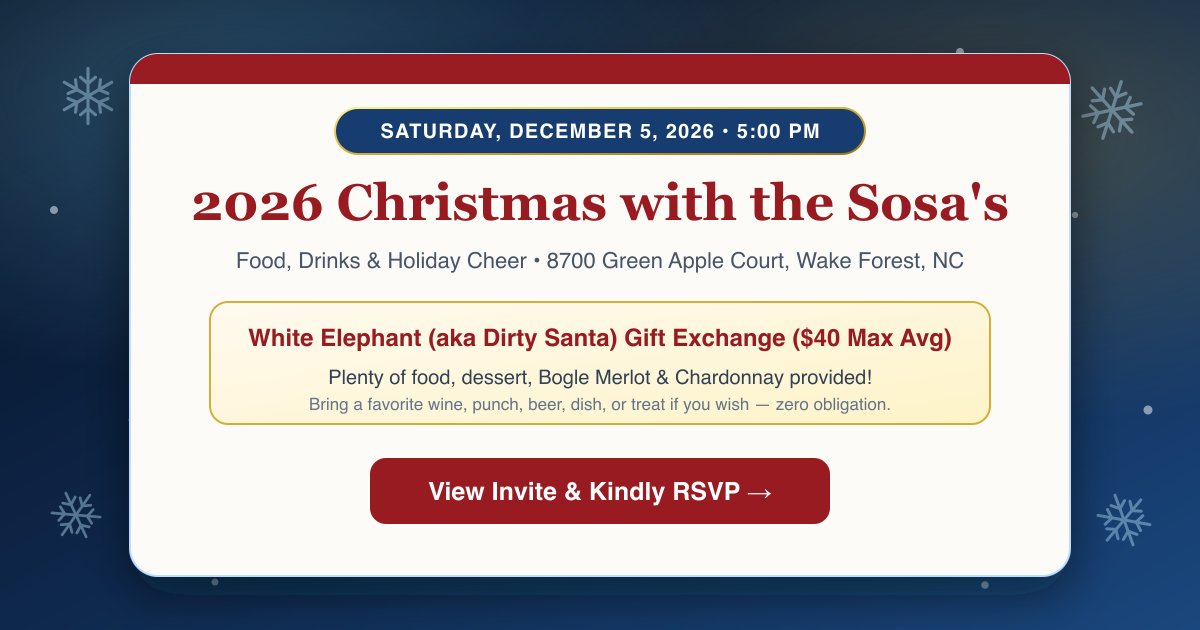
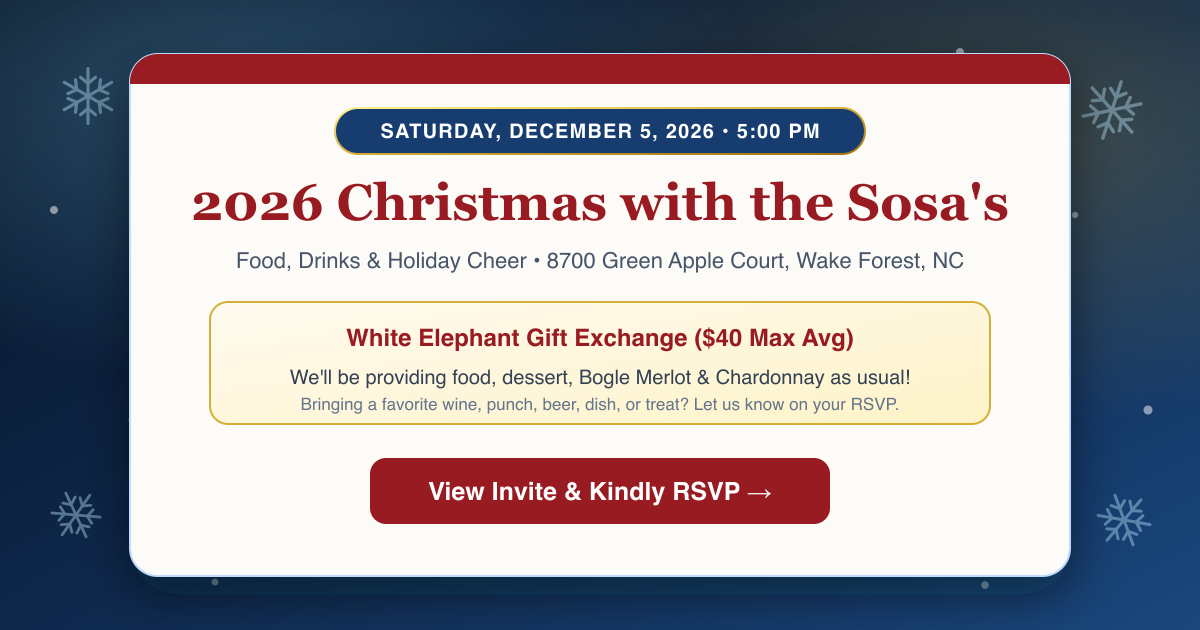
Use White Elephant only, apply Option C food/wine wording, and remove Nothing checkbox option

Changed region(s): [[0.185, 0.5127, 0.8017, 0.6635]]

diff --git a/invite/index.html b/invite/index.html
@@ -6,7 +6,7 @@
   <meta name="robots" content="noindex, nofollow, noarchive">
   <meta name="theme-color" content="#071326">
   <title>2026 Christmas with the Sosa's — Invite &amp; RSVP</title>
-  <meta name="description" content="Saturday, December 5, 2026 @ 5:00 PM • 8700 Green Apple Court, Wake Forest, NC • Food, Drinks &amp; White Elephant (aka Dirty Santa) Gift Exchange.">
+  <meta name="description" content="Saturday, December 5, 2026 @ 5:00 PM • 8700 Green Apple Court, Wake Forest, NC • Food, Drinks &amp; White Elephant Gift Exchange.">
   <!-- Favicon & Apple Touch Icon -->
   <link rel="icon" type="image/svg+xml" href="./favicon.svg">
   <link rel="icon" type="image/png" sizes="64x64" href="./favicon.png">
@@ -15,9 +15,9 @@
   <meta property="og:type" content="website">
   <meta property="og:site_name" content="2026 Christmas with the Sosa's">
   <meta property="og:title" content="2026 Christmas with the Sosa's — Invite &amp; RSVP">
-  <meta property="og:description" content="Saturday, December 5, 2026 @ 5:00 PM • 8700 Green Apple Court, Wake Forest, NC • Food, Drinks &amp; White Elephant (aka Dirty Santa) Gift Exchange.">
+  <meta property="og:description" content="Saturday, December 5, 2026 @ 5:00 PM • 8700 Green Apple Court, Wake Forest, NC • Food, Drinks &amp; White Elephant Gift Exchange.">
   <meta property="og:url" content="https://2026christmas.sosa-life.com/invite/">
-  <meta property="og:image" content="https://2026christmas.sosa-life.com/invite/og-preview.png">
+  <meta property="og:image" content="https://2026christmas.sosa-life.com/invite/og-preview.png?v=7">
   <meta property="og:image:type" content="image/png">
   <meta property="og:image:width" content="1200">
   <meta property="og:image:height" content="630">
@@ -25,14 +25,14 @@
   <!-- Twitter / X Large Image Card -->
   <meta name="twitter:card" content="summary_large_image">
   <meta name="twitter:title" content="2026 Christmas with the Sosa's — Invite &amp; RSVP">
-  <meta name="twitter:description" content="Saturday, December 5, 2026 @ 5:00 PM • 8700 Green Apple Court, Wake Forest, NC • Food, Drinks &amp; White Elephant (aka Dirty Santa) Gift Exchange.">
-  <meta name="twitter:image" content="https://2026christmas.sosa-life.com/invite/og-preview.png">
+  <meta name="twitter:description" content="Saturday, December 5, 2026 @ 5:00 PM • 8700 Green Apple Court, Wake Forest, NC • Food, Drinks &amp; White Elephant Gift Exchange.">
+  <meta name="twitter:image" content="https://2026christmas.sosa-life.com/invite/og-preview.png?v=7">
   <link rel="preconnect" href="https://fonts.googleapis.com">
   <link rel="preconnect" href="https://fonts.gstatic.com" crossorigin>
   <link href="https://fonts.googleapis.com/css2?family=Playfair+Display:wght@600;700&family=Plus+Jakarta+Sans:wght@400;500;600;700&display=swap" rel="stylesheet">
-  <link rel="stylesheet" href="./styles.css?v=6">
-  <script defer src="../config.js?v=6"></script>
-  <script defer src="./app.js?v=6"></script>
+  <link rel="stylesheet" href="./styles.css?v=7">
+  <script defer src="../config.js?v=7"></script>
+  <script defer src="./app.js?v=7"></script>
 </head>
 <body>
   <canvas id="snow-canvas" aria-hidden="true"></canvas>
@@ -61,9 +61,9 @@
       </div>
 
       <div class="callout-banner white-elephant-banner" id="white-elephant-banner">
-        <p class="callout-title">🎁 White Elephant (aka Dirty Santa) Gift Exchange Returns!</p>
+        <p class="callout-title">🎁 White Elephant Gift Exchange Returns!</p>
         <p id="white-elephant-announcement">
-          We'll be doing our White Elephant (aka Dirty Santa) gift exchange again this year just like last year! Please let us know in your RSVP if you'll be participating. The average gift value should be no more than $40.
+          We'll be doing our White Elephant gift exchange again this year just like last year! Please let us know in your RSVP if you'll be participating. The average gift value should be no more than $40.
         </p>
         <p class="callout-links">
           <a
@@ -72,7 +72,7 @@
             target="_blank"
             rel="noopener"
           >
-            New to White Elephant (Dirty Santa)? Read how it works →
+            New to White Elephant? Read how it works →
           </a>
         </p>
       </div>
@@ -93,7 +93,7 @@
         <details class="faq-outer-drawer" id="faq-outer-drawer">
           <summary class="faq-outer-summary">
             <span class="faq-outer-label">❓ Frequently Asked Questions</span>
-            <span class="faq-outer-hint">Food &amp; Drinks, Kids, White Elephant (Dirty Santa)</span>
+            <span class="faq-outer-hint">Food &amp; Drinks, Kids, White Elephant</span>
           </summary>
           <div id="faq-list" class="faq-list faq-outer-body"></div>
         </details>
@@ -235,7 +235,7 @@
 
             <fieldset class="field fieldset-plain">
               <legend>
-                Participating in White Elephant (aka Dirty Santa)?
+                Participating in White Elephant?
                 <span class="legend-subtext">
                   We're doing it again this year! Average gift value of no more than $40.
                   <a href="https://www.whiteelephantrules.com/" target="_blank" rel="noopener">How it works</a>
@@ -245,9 +245,9 @@
             </fieldset>
 
             <div class="callout-banner hosts-note-banner" id="hosts-note-banner">
-              <p class="callout-title">🍷 Food &amp; Drinks Provided — Zero Obligation to Bring Anything</p>
+              <p class="callout-title">🍷 Our Holiday Spread &amp; Favorite Sips</p>
               <p id="hosts-note-text">
-                We will have Bogle Merlot and a Chardonnay on hand, plus plenty of food and dessert for everyone! You don't need to bring a thing—as always, we'll have enough food for all. However, we encourage you to bring your favorite wine, punch, or beer (or a dish, appetizer, or dessert if you wish), and please let us know below so we can plan accordingly and minimize food waste.
+                We will be providing food, dessert, and wine (Bogle Merlot &amp; Chardonnay) as usual! If you feel the need to bring something—especially a favorite wine, punch, beer, or a go-to holiday dish or treat—please share it below so we can plan around it and avoid duplicates.
               </p>
             </div>
 
@@ -339,7 +339,7 @@
           <div>
             <h2 id="contributions-heading">Drinks, Dishes, or Treats Guests Are Bringing</h2>
             <p class="card-intro">
-              You don't need to bring a thing—we'll have plenty of food, Bogle Merlot, and Chardonnay! If you wish to bring a favorite drink, dish, or treat, here's what others have mentioned so far. <strong>Refresh the page (or tap Refresh) anytime to see the latest list.</strong>
+              We will be providing food, dessert, and wine (Bogle Merlot &amp; Chardonnay) as usual! If you feel the need to bring a favorite drink, dish, or treat, here's what others have mentioned so far. <strong>Refresh the page (or tap Refresh) anytime to see the latest list.</strong>
             </p>
           </div>
           <button type="button" id="btn-refresh-contributions" class="btn btn-ghost btn-sm">

diff --git a/config.js b/config.js
@@ -18,20 +18,19 @@ window.PARTY_CONFIG = {
     address: '8700 Green Apple Court, Wake Forest, NC',
     mapsUrl: 'https://maps.google.com/?q=8700+Green+Apple+Court,+Wake+Forest,+NC',
     whiteElephantAnnouncement:
-      "We'll be doing our White Elephant (aka Dirty Santa) gift exchange again this year just like last year! Please let us know in your RSVP if you'll be participating. The average gift value should be no more than $40.",
+      "We'll be doing our White Elephant gift exchange again this year just like last year! Please let us know in your RSVP if you'll be participating. The average gift value should be no more than $40.",
     whiteElephantRulesUrl: 'https://www.whiteelephantrules.com/',
     whiteElephantVideoUrl: 'https://youtube.com/shorts/f4T9XBq3QkI',
     whiteElephantLimit: '$40',
     hostsNote:
-      "We will have Bogle Merlot and a Chardonnay on hand, plus plenty of food and dessert for everyone! You don't need to bring a thing—as always, we'll have enough food for all. However, we encourage you to bring your favorite wine, punch, or beer (or a dish, appetizer, or dessert if you wish), and please let us know below so we can plan accordingly and minimize food waste."
+      'We will be providing food, dessert, and wine (Bogle Merlot & Chardonnay) as usual! If you feel the need to bring something—especially a favorite wine, punch, beer, or a go-to holiday dish or treat—please share it below so we can plan around it and avoid duplicates.'
   },
 
   BRINGING_OPTIONS: [
     'Favorite Wine, Punch, or Beer (We will have Bogle Merlot & Chardonnay!)',
     "Appetizer / Hors d'oeuvres",
     'Dish (Side or Main)',
-    'Dessert / Sweet Treat',
-    'Nothing — just bringing ourselves! (Plenty of food provided)'
+    'Dessert / Sweet Treat'
   ],
 
   // Short display labels used in the public "Drinks, Dishes, or Treats" table
@@ -49,7 +48,7 @@ window.PARTY_CONFIG = {
     {
       question: 'Should I bring something?',
       answer:
-        "If you know Jonnin then you know she loves to cook and bake! As always, we'll have plenty of food and dessert for all to enjoy, plus Bogle Merlot and a Chardonnay. People don't need to bring anything at all. That said, we encourage you to bring your favorite wine, punch, or beer—or if you wish to bring a dish, charcuterie, appetizer, or dessert/treat, please let us know in your RSVP so we can plan accordingly and minimize food waste. Of course, if you have allergies, feel free to bring something you can enjoy safely."
+        'If you know Jonnin then you know she loves to cook and bake! We will be providing food, dessert, and wine (Bogle Merlot & Chardonnay) as usual. If you feel the need to bring something—especially a favorite wine, punch, beer, or a go-to holiday dish, appetizer, or treat—please let us know in your RSVP so we can plan around it and avoid duplicates. Of course, if you have allergies, feel free to bring something you can enjoy safely.'
     },
     {
       question: 'Can I bring my children?',
@@ -57,10 +56,10 @@ window.PARTY_CONFIG = {
         'Your children are welcome! All we ask is that you keep a watchful eye on them if they are mobile. Like last year, Jonnin is hoping to have a game for the kids to play (let us know on the RSVP how many kids under 10 are coming!), and we have ample Wi-Fi for those who want to stay occupied on their devices.'
     },
     {
-      question: "What's a White Elephant (aka Dirty Santa)?",
+      question: "What's a White Elephant?",
       answer:
-        "We are doing the White Elephant (aka Dirty Santa) gift exchange again this year just like last year! It's a gift-swapping game where each participating person brings a wrapped gift (couples can share, though it's best to have one each), and players take turns either choosing a new wrapped gift or stealing one that has already been opened (max 2 steals per gift for us). Please keep the average gift value to no more than $40. Gag gifts and unopened regifts are welcome!",
-      linkText: 'Read Official White Elephant (Dirty Santa) Rules',
+        "We are doing the White Elephant gift exchange again this year just like last year! It's a gift-swapping game where each participating person brings a wrapped gift (couples can share, though it's best to have one each), and players take turns either choosing a new wrapped gift or stealing one that has already been opened (max 2 steals per gift for us). Please keep the average gift value to no more than $40. Gag gifts and unopened regifts are welcome!",
+      linkText: 'Read Official White Elephant Rules',
       linkUrl: 'https://www.whiteelephantrules.com/',
       secondaryLinkText: 'Watch quick overview video',
       secondaryLinkUrl: 'https://youtube.com/shorts/f4T9XBq3QkI'

diff --git a/invite/app.js b/invite/app.js
@@ -292,22 +292,6 @@
       input.name = 'bringingCategories';
       input.value = opt;
 
-      input.addEventListener('change', () => {
-        const allBoxes = Array.from(
-          bringingContainer.querySelectorAll('input[type="checkbox"]')
-        );
-        const isNothing = opt.startsWith('Nothing');
-        if (isNothing && input.checked) {
-          allBoxes.forEach((cb) => {
-            if (cb !== input) cb.checked = false;
-          });
-        } else if (!isNothing && input.checked) {
-          allBoxes.forEach((cb) => {
-            if (cb.value.startsWith('Nothing')) cb.checked = false;
-          });
-        }
-      });
-
       const span = document.createElement('span');
       span.className = 'option-text';
       const strong = document.createElement('strong');
@@ -703,7 +687,7 @@
       '&text=' + encodeURIComponent(ev.title) +
       '&dates=' + encodeURIComponent(`${ev.startIsoUtc}/${ev.endIsoUtc}`) +
       '&location=' + encodeURIComponent(ev.address) +
-      '&details=' + encodeURIComponent(`White Elephant (aka Dirty Santa, $40 max avg) & Event Details: ${inviteUrl}`)
+      '&details=' + encodeURIComponent(`White Elephant ($40 max avg) & Event Details: ${inviteUrl}`)
     );
   }
 
@@ -724,7 +708,7 @@
       `DTEND:${ev.endIsoUtc}`,
       `SUMMARY:${ev.title}`,
       `LOCATION:${escapedAddress}`,
-      `DESCRIPTION:We can't wait to celebrate with you! White Elephant (aka Dirty Santa) gift exchange ($40 max avg). Details: ${inviteUrl}`,
+      `DESCRIPTION:We can't wait to celebrate with you! White Elephant gift exchange ($40 max avg). Details: ${inviteUrl}`,
       'END:VEVENT',
       'END:VCALENDAR'
     ].join('\r\n');
@@ -767,7 +751,7 @@
 
     if (!allContributions.length) {
       const li = document.createElement('li');
-      li.textContent = "Nothing listed yet—and remember, you don't need to bring a thing!";
+      li.textContent = "No guest items listed yet—we'll have food, dessert, Bogle Merlot & Chardonnay ready as usual!";
       inlineContributionsList.appendChild(li);
       return;
     }
@@ -797,7 +781,7 @@
       td.colSpan = 3;
       td.textContent =
         activeFilter === 'all'
-          ? "No guest items listed yet—and remember, you don't need to bring a thing!"
+          ? "No guest items listed yet—we'll be providing food, dessert, Bogle Merlot & Chardonnay as usual!"
           : 'No items in this category yet.';
       tr.appendChild(td);
       contributionsList.appendChild(tr);
